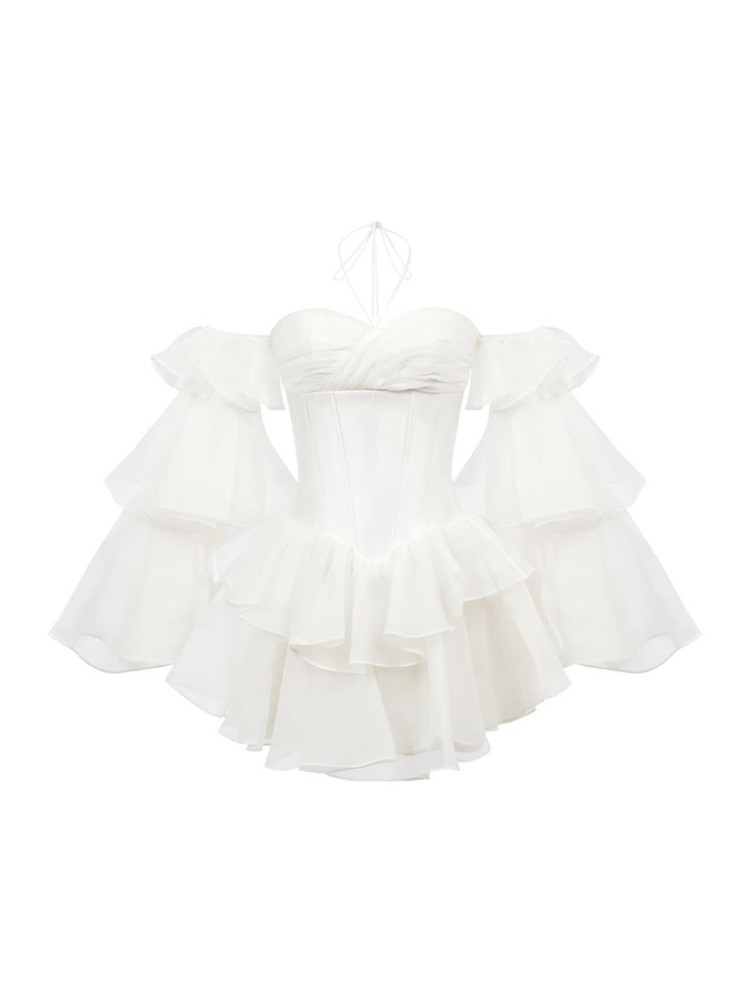
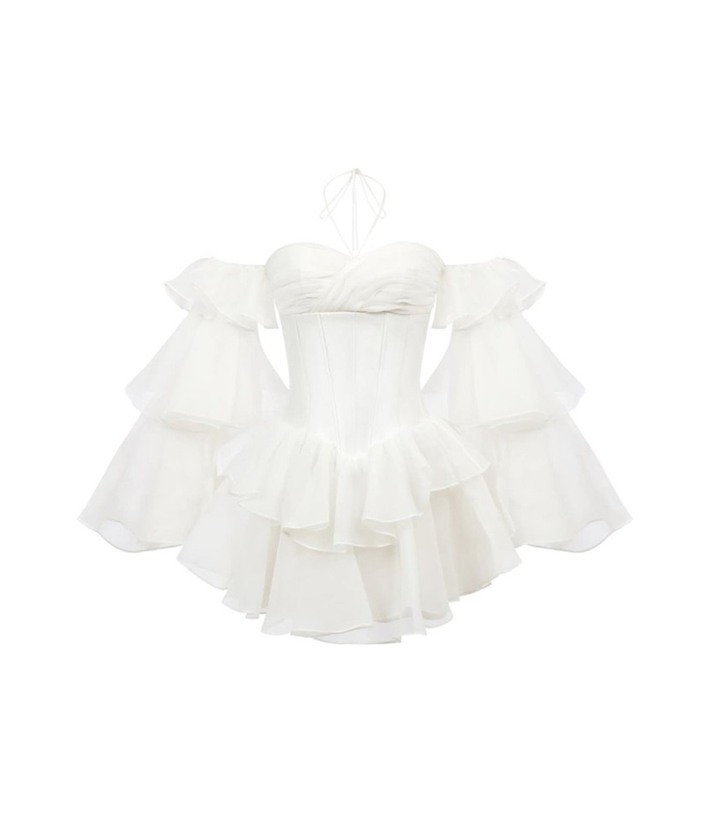
нормализовать все фото платьев к единому формату и обновить карточку №8

diff --git a/index.html b/index.html
@@ -376,7 +376,7 @@ h1, h2, h3, .serif { font-family: var(--font-serif); font-weight: 500; line-heig
 .category-card__photo img[src="dresses.jpg"] { object-fit: contain; }
 
 /* платья раздела «Платья»: вещь с полями, как на других карточках */
-.card__photo img[src="dress-corset.jpg"], .card__photo img[src="dress-volany.jpg"], .card__photo img[src="dress-shirt2.jpg"], .card__photo img[src="dress-shirt3.jpg"], .card__photo img[src="e14458e95252ee275c697a6ba4ade56c.jpg"], .card__photo img[src="dress-gorosh.jpg"], .card__photo img[src="dress-lux.jpg"], .card__photo img[src="dress-tux.jpg"] { object-fit: contain; mix-blend-mode: multiply; }
+.card__photo img[src="dress-corset.jpg"], .card__photo img[src="dress-volany.jpg"], .card__photo img[src="dress-shirt2.jpg"], .card__photo img[src="dress-shirt3.jpg"], .card__photo img[src="e14458e95252ee275c697a6ba4ade56c.jpg"], .card__photo img[src="dress-gorosh.jpg"], .card__photo img[src="dress-lux.jpg"], .card__photo img[src="dress-tux.jpg"], .card__photo img[src="dress-blue-mini.jpg"] { object-fit: contain; mix-blend-mode: multiply; }
 
 /* брюки: показываем вещь целиком */
 .category-card__photo img[src="9ce6bdba9d1d812804fd26bbd63a8a39.jpg"] { object-fit: contain; }
@@ -1324,7 +1324,7 @@ h1, h2, h3, .serif { font-family: var(--font-serif); font-weight: 500; line-heig
 
   /* ---------- Разделы категорий: карточки-заглушки, фото добавит заказчик ---------- */
   const CATEGORY_DATA = {
-    dresses:      { title: 'Платья',          base: 18900, photos: { 0: 'dress-volany.jpg', 1: 'dress-corset.jpg', 2: 'dress-shirt3.jpg', 3: 'e14458e95252ee275c697a6ba4ade56c.jpg', 4: 'dress-tux.jpg', 5: 'dress-gorosh.jpg', 6: 'dress-lux.jpg', 7: 'dress-tux.jpg' } },
+    dresses:      { title: 'Платья',          base: 18900, photos: { 0: 'dress-volany.jpg', 1: 'dress-corset.jpg', 2: 'dress-shirt3.jpg', 3: 'e14458e95252ee275c697a6ba4ade56c.jpg', 4: 'dress-tux.jpg', 5: 'dress-gorosh.jpg', 6: 'dress-lux.jpg', 7: 'dress-blue-mini.jpg' } },
     tops:         { title: 'Топы',            base: 4900  },
     skirts:       { title: 'Юбки',            base: 8400  },
     pants:        { title: 'Брюки',           base: 9900  },
@@ -1348,14 +1348,14 @@ h1, h2, h3, .serif { font-family: var(--font-serif); font-weight: 500; line-heig
     '<path d="M10 4a2 2 0 1 1 2 2l-8.9 6.6c-.9.7-.4 2.1.7 2.1h16.4c1.1 0 1.6-1.4.7-2.1L12 6"/></svg>';
 
   const ITEM_OVERRIDES = {
-    'dresses:0': { name: 'Платье с воланами, белое', meta: 'Хлопок · Шелк', price: 6990 },
-    'dresses:1': { name: 'Платье-корсет, серое', meta: 'Атлас · Кружево', price: 6459 },
-    'dresses:2': { name: 'Платье-рубашка, серое', meta: 'Лен · Вискоза', price: 7499 },
-    'dresses:3': { name: 'Платье с рюшами, персик', meta: 'Шифон · Вискоза', price: 5990 },
-    'dresses:4': { name: 'Коктейльное платье с кружевом, крем', meta: 'Атлас · Кружево', price: 5290 },
-    'dresses:5': { name: 'Платье-мини в горошек, черное', meta: 'Хлопок · Атлас', price: 4890 },
-    'dresses:6': { name: 'Вечернее платье с воланами, голубое', meta: 'Атлас · Шифон', price: 9890 },
-    'dresses:7': { name: 'Платье мини с бархатным бантом, крем', meta: 'Атлас · Бархат', price: 8990 }
+    'dresses:0': { name: 'Платье с воланами, белое', meta: 'Хлопок · шелк', price: 6990 },
+    'dresses:1': { name: 'Платье-корсет, серое', meta: 'Атлас · кружево', price: 6459 },
+    'dresses:2': { name: 'Платье-рубашка, серое', meta: 'Лен · вискоза', price: 7499 },
+    'dresses:3': { name: 'Платье с рюшами, персик', meta: 'Шифон · вискоза', price: 5990 },
+    'dresses:4': { name: 'Коктейльное платье с кружевом, крем', meta: 'Атлас · кружево', price: 5290 },
+    'dresses:5': { name: 'Платье-мини в горошек, черное', meta: 'Хлопок · атлас', price: 4890 },
+    'dresses:6': { name: 'Вечернее платье с воланами, голубое', meta: 'Атлас · шифон', price: 9890 },
+    'dresses:7': { name: 'Платье-мини с драпировкой, серо-голубое', meta: 'Атлас · эластан', price: 9990 }
   };
 
   function phCard(title, price, i, photos, catKey) {
